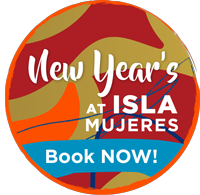
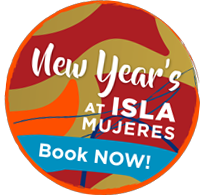
mv nye btn to bottom, fix xl desktop layout

diff --git a/style.css b/style.css
@@ -1190,9 +1190,8 @@ html.supportsFlexbox #primary-menu-sticky {
 
 	width: 175px;
 	height: 170px;
-	top: 11px;
+	bottom: 11px;
 	right: 0;
-	transform: rotate(6deg);
 
 	/* Below old positions/media queries had btn in the header
 	and it move from left to right side on mobile
@@ -1208,6 +1207,13 @@ html.supportsFlexbox #primary-menu-sticky {
 	.header-special-btn {
 		width: 145px;
 		height: 130px;
+	}
+}
+
+@media screen and (min-width: 1200px) {
+	.header-special-btn {
+		left: 75%;
+		right: auto;
 	}
 }
 
